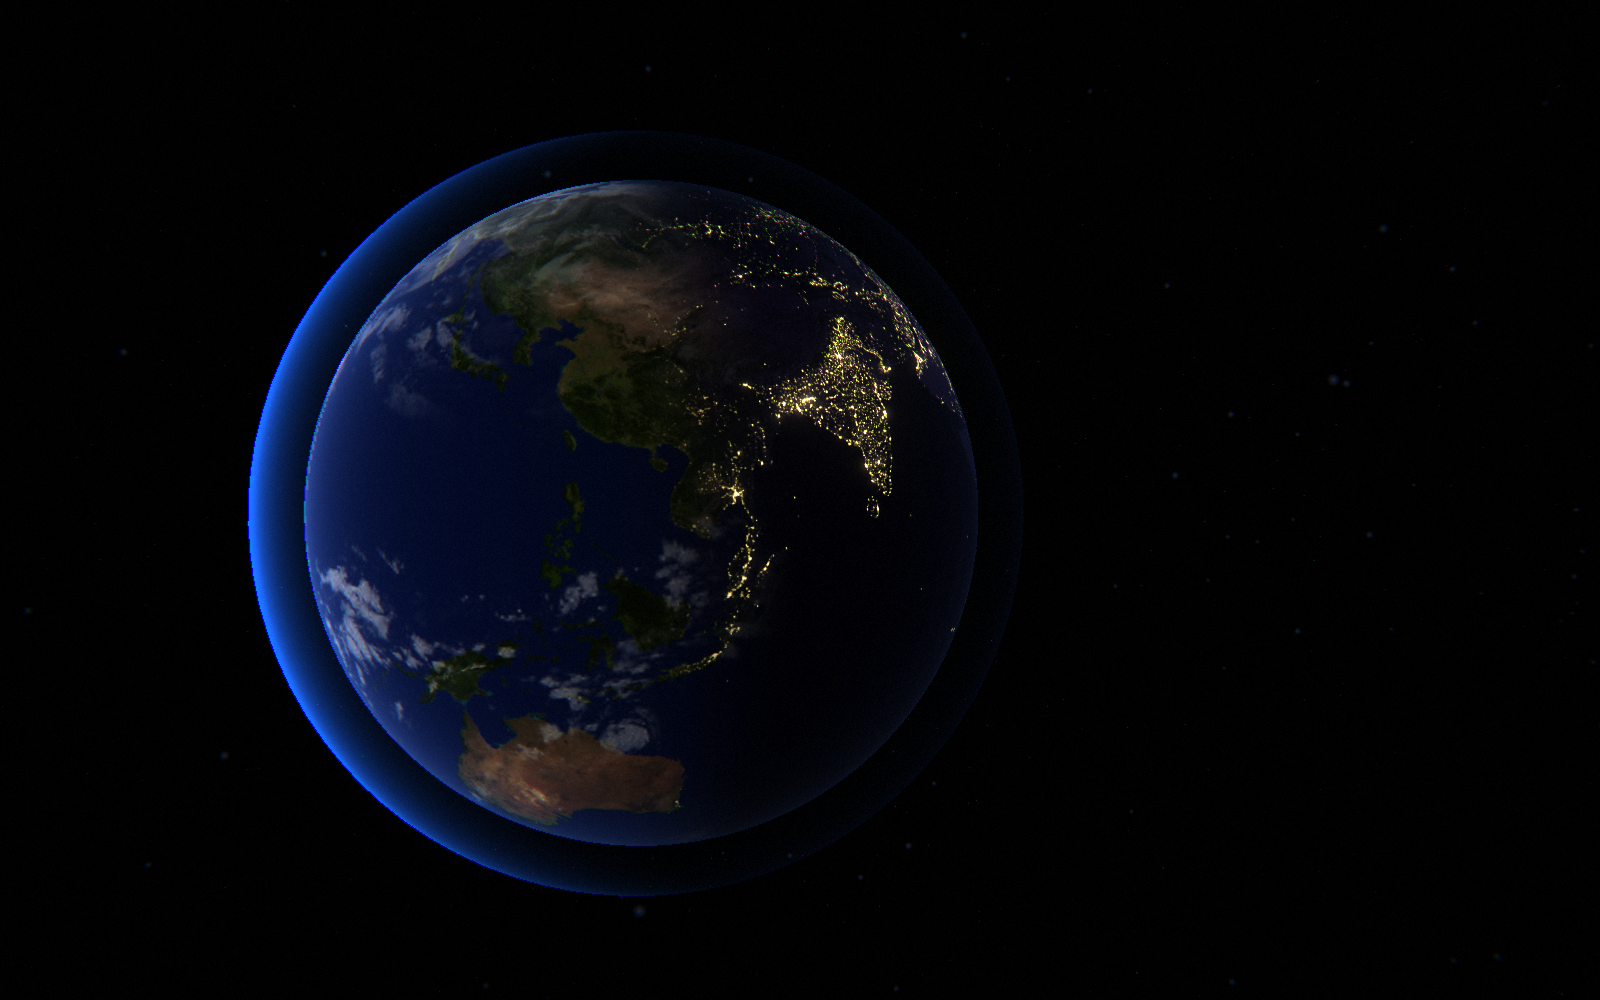
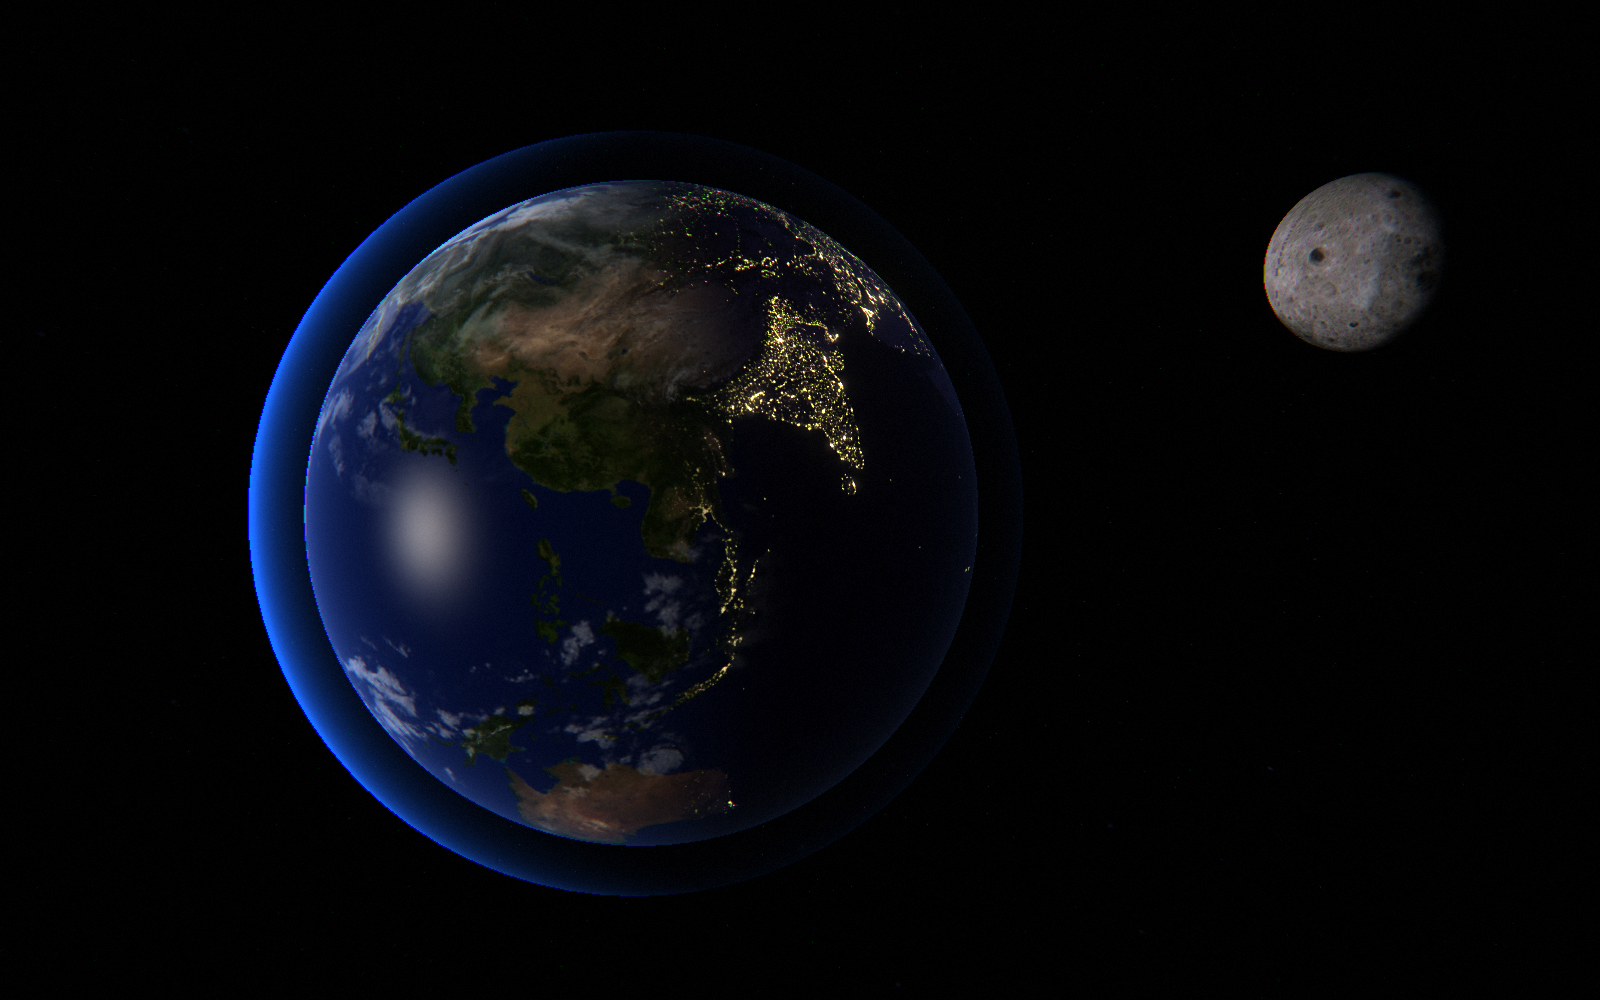
feat: solar-journey realism expansion — moon systems, ring shadow, ocean glint, milky way, axial tilts

Changed region(s): [[0.1875, 0.186, 0.5938, 0.837], [0.7812, 0.155, 0.9062, 0.372]]

diff --git a/designs/03-solar-journey/index.html b/designs/03-solar-journey/index.html
@@ -201,6 +201,16 @@ function dot() {
 const stars = makeStars(4500, 1600);
 scene.add(stars);
 
+// Milky Way band — a dim photographic sky sphere behind the point stars grounds the
+// whole scene in a real galaxy instead of flat black
+const milky = new THREE.Mesh(
+  new THREE.SphereGeometry(1500, 48, 32),
+  new THREE.MeshBasicMaterial({ side: THREE.BackSide, depthWrite: false, color: 0x6e6e84 }),
+);
+milky.rotation.set(0.45, 0, 1.05);
+milky.renderOrder = -20;
+scene.add(milky);
+
 // ---------------------------------------------------------------- sun
 const sunUniforms = { uTime: { value: 0 }, uMap: { value: null } };
 const sun = new THREE.Mesh(
@@ -317,6 +327,8 @@ function loadTex(file, srgb) {
   return t;
 }
 sunUniforms.uMap.value = loadTex('sun.jpg', true);  // sun mesh is declared above the loader block
+milky.material.map = loadTex('stars_milky_way.jpg', true);
+milky.material.needsUpdate = true;
 
 // ---------------------------------------------------------------- planet factory
 const planetVert = `varying vec3 vObj; varying vec3 vW; varying vec3 vWN;
@@ -346,7 +358,7 @@ const planetFrag = `
 // Earth gets its own surface: NASA Black Marble city lights on the night side and a
 // drifting cloud layer (both reused from 21-earth-descent's texture set, see SOURCES.md).
 const earthFrag = `
-  uniform sampler2D uMap; uniform sampler2D uNight; uniform sampler2D uClouds; uniform float uTime;
+  uniform sampler2D uMap; uniform sampler2D uNight; uniform sampler2D uClouds; uniform sampler2D uSpec; uniform float uTime;
   varying vec3 vObj; varying vec3 vW; varying vec3 vWN;
   const float INV_PI = 0.3183098862, INV_2PI = 0.1591549431;
   void main(){
@@ -365,11 +377,50 @@ const earthFrag = `
     nightSide *= 1.0 - cl * 0.6;                                // clouds occlude the city lights
     vec3 col = mix(nightSide, day * (0.25 + 0.85*d), term);
     vec3 V = normalize(cameraPosition - vW);
+    // sun glint on open water — masked by the specular map and the cloud layer
+    float sp = texture2D(uSpec, uv).r;
+    vec3 R = reflect(-L, wn);
+    col += vec3(1.0, 0.92, 0.75) * pow(clamp(dot(R, V), 0.0, 1.0), 30.0) * sp * d * (1.0 - cl) * 0.7;
     float fres = pow(1.0 - clamp(dot(wn,V),0.0,1.0), 3.0);
     col += vec3(0.35,0.55,1.0) * fres * 0.5 * (0.25 + d);       // blue scatter rim
     gl_FragColor = vec4(col, 1.0);
   }`;
 
+// axial tilt (rad), spin rate (rad/s, Venus retrograde) and moon systems per body.
+// Moon sizes/distances are art-scaled like everything else, but ratios stay honest
+// (Ganymede > Io, Titan outside the rings, Triton retrograde + steeply inclined).
+const PHYS = {
+  mercury: { tilt: 0.001, spin: 0.010 },
+  venus:   { tilt: 0.05,  spin: -0.006 },
+  earth:   { tilt: 0.41,  spin: 0.050, moons: [{ r: 0.7, dist: 6.0, speed: 0.05, incl: 0.09, phase: 5.8, tex: 'moon.jpg' }] },
+  mars:    { tilt: 0.44,  spin: 0.048, moons: [
+    { r: 0.14, dist: 3.2, speed: 0.22, incl: 0.02, tint: 0x8a7f72 },      // Phobos
+    { r: 0.11, dist: 4.4, speed: 0.15, incl: 0.05, tint: 0x9a8f82 } ] },  // Deimos
+  jupiter: { tilt: 0.05,  spin: 0.120, moons: [
+    { r: 0.50, dist: 12.5, speed: 0.16, incl: 0.02, tint: 0xd8c26a },     // Io
+    { r: 0.42, dist: 14.8, speed: 0.12, incl: 0.04, tint: 0xcfc4b0 },     // Europa
+    { r: 0.72, dist: 17.6, speed: 0.09, incl: 0.03, tint: 0x9a8d7a },     // Ganymede
+    { r: 0.65, dist: 20.5, speed: 0.07, incl: 0.05, tint: 0x6f6558 } ] }, // Callisto
+  saturn:  { tilt: 0.47,  spin: 0.110, moons: [{ r: 0.6, dist: 21.0, speed: 0.06, incl: 0.06, tint: 0xd8a35a }] }, // Titan
+  uranus:  { tilt: 1.71,  spin: 0.080 },
+  neptune: { tilt: 0.49,  spin: 0.090, moons: [{ r: 0.45, dist: 9.5, speed: -0.08, incl: 2.7, tint: 0xbfc8d0 }] }, // Triton
+};
+
+// untextured minor moons: sun-lit fbm-shaded rock in the body's own tint
+const moonFrag = NOISE + `
+  uniform vec3 uTint; varying vec3 vObj; varying vec3 vW; varying vec3 vWN;
+  void main(){
+    vec3 n = normalize(vObj);
+    vec3 wn = normalize(vWN);
+    vec3 L = normalize(-vW);
+    float d = clamp(dot(wn, L), 0.0, 1.0);
+    float term = smoothstep(-0.05, 0.35, dot(wn, L));
+    vec3 col = uTint * (0.7 + 0.5 * fbm(n * 9.0));
+    col = mix(col * 0.03, col, term) * (0.30 + 0.70 * d);
+    gl_FragColor = vec4(col, 1.0);
+  }`;
+
+const moonPivots = [];
 function makePlanet(cfg) {
   const g = new THREE.Group();
   const isEarth = cfg.key === 'earth';
@@ -377,6 +428,7 @@ function makePlanet(cfg) {
   if (isEarth) {
     uniforms.uNight = { value: loadTex('earth_night.jpg', true) };
     uniforms.uClouds = { value: loadTex('earth_clouds.png', false) };
+    uniforms.uSpec = { value: loadTex('earth_spec.jpg', false) };
     uniforms.uTime = { value: 0 };
   }
   const mat = new THREE.ShaderMaterial({
@@ -384,8 +436,23 @@ function makePlanet(cfg) {
     vertexShader: planetVert, fragmentShader: isEarth ? earthFrag : planetFrag,
   });
   const body = new THREE.Mesh(new THREE.IcosahedronGeometry(cfg.r, 24), mat);
-  body.rotation.z = (cfg.key === 'uranus') ? 1.6 : 0.15;
   g.add(body);
+  const phys = PHYS[cfg.key] || {};
+  g.rotation.z = phys.tilt || 0;  // tilt the whole system: body spin axis, rings, moon orbits
+  for (const m of phys.moons || []) {
+    const pivot = new THREE.Group();
+    pivot.rotation.x = m.incl;
+    pivot.rotation.y = m.phase ?? (m.dist * 2.399) % 6.283;  // fixed phase where the station framing needs the moon in shot
+    pivot.userData.speed = m.speed;
+    const moonMat = m.tex
+      ? new THREE.ShaderMaterial({ uniforms: { uMap: { value: loadTex(m.tex, true) } }, vertexShader: planetVert, fragmentShader: planetFrag })
+      : new THREE.ShaderMaterial({ uniforms: { uTint: { value: new THREE.Color(m.tint) } }, vertexShader: planetVert, fragmentShader: moonFrag });
+    const moon = new THREE.Mesh(new THREE.IcosahedronGeometry(m.r, 12), moonMat);
+    moon.position.set(m.dist, 0, 0);
+    pivot.add(moon);
+    g.add(pivot);
+    moonPivots.push(pivot);
+  }
   if (cfg.atmo) {
     const atmo = new THREE.Mesh(
       new THREE.IcosahedronGeometry(cfg.r * 1.13, 16),
@@ -409,12 +476,22 @@ function makePlanet(cfg) {
       new THREE.ShaderMaterial({
         transparent:true, side:THREE.DoubleSide, depthWrite:false,
         uniforms:{ uInner:{value:cfg.r*1.35}, uOuter:{value:cfg.r*2.3},
+          uCenter:{value:new THREE.Vector3(cfg.x, 0, 0)}, uPlanetR:{value:cfg.r},
           uRingColor:{value:loadTex('saturn_ring_color.jpg', true)}, uRingAlpha:{value:loadTex('saturn_ring_alpha.gif', false)} },
         vertexShader:`varying vec3 vObj; varying vec3 vW; void main(){ vObj=position; vec4 w=modelMatrix*vec4(position,1.0); vW=w.xyz; gl_Position=projectionMatrix*viewMatrix*w; }`,
-        fragmentShader: `uniform float uInner; uniform float uOuter; uniform sampler2D uRingColor; uniform sampler2D uRingAlpha; varying vec3 vObj; varying vec3 vW;
+        fragmentShader: `uniform float uInner; uniform float uOuter; uniform sampler2D uRingColor; uniform sampler2D uRingAlpha;
+          uniform vec3 uCenter; uniform float uPlanetR; varying vec3 vObj; varying vec3 vW;
           void main(){ float r=length(vObj.xy); float t=clamp((r-uInner)/(uOuter-uInner),0.0,1.0);
             vec3 col = texture2D(uRingColor, vec2(t, 0.5)).rgb;       // real radial ring profile
             float a = texture2D(uRingAlpha, vec2(t, 0.5)).r;          // transparency pattern (Cassini gaps etc.)
+            // planet shadow across the rings — the single strongest "real Saturn" cue:
+            // ring point is shadowed when the ray toward the Sun (origin) passes the globe
+            vec3 L = normalize(-vW);
+            vec3 toC = uCenter - vW;
+            float proj = dot(toC, L);
+            float axDist = length(toC - proj * L);
+            float sh = proj > 0.0 ? smoothstep(uPlanetR * 0.86, uPlanetR * 1.04, axDist) : 1.0;
+            col *= 0.10 + 0.90 * sh;
             gl_FragColor = vec4(col, a); }`,
       })
     );
@@ -628,7 +705,8 @@ loop((elapsed, dt) => {
   bloom.strength = mapClamp(seg, 0.8, 2.0, 0.45, 0.7);
   diskUniforms.uTime.value = elapsed;
   disk.rotation.z = elapsed * 0.06;
-  for (const p of planets) { p.body.rotation.y += dt * 0.06; }   // textures are static; just spin the bodies
+  for (const p of planets) { p.body.rotation.y += dt * ((PHYS[p.cfg.key] || {}).spin ?? 0.05); }
+  for (const pv of moonPivots) pv.rotation.y += dt * pv.userData.speed;
   earthMat.uniforms.uTime.value = elapsed;
   // distance-shot effect only: at the Sol close-up the sprite sits right on the disc
   // and repaints the centre as a white blob (+ its streak), so it must be gone by seg 1

diff --git a/PLAN.md b/PLAN.md
@@ -307,3 +307,19 @@ User-requested concepts (2026-06-29): `21-earth-descent` (build now), `22-goal-s
   bloom (`c != c → 0`, clamp 0..64) so any missed source dies before the mip chain; plus a
   `?nomsaa` diagnostic flag in `shared/lib.js`. NOTE: the same unclamped-pow pattern exists in
   01/02/21's fresnel shaders — if Nico reports black blocks there, apply the same clamp + scrub.
+- 2026-07-03 — **realism expansion on `03-solar-journey`** (Nico: "deutlich realistischer, Monde,
+  sau beeindruckend"). (1) **Photo-based sun**: Solar System Scope sun map (CC BY 4.0, existing
+  footer credit covers it) replaces the procedural photosphere — two counter-drifting fbm-warped
+  samples cross-fade so the surface visibly boils without tiling; limb darkening, chromosphere
+  rim, streaked corona and glow sprite stay analytic on top. Procedural fbm alone topped out at
+  "lava lamp" after ~8 tuning rounds — texture was the step change. (2) **Moon systems** (PHYS
+  table: tilt/spin/moons per body): Luna with the real 2k moon map (fixed orbit phase 5.8 so it
+  sits in shot at the Earth station), Phobos/Deimos, the four Galilean moons (art-scaled but
+  honest ratios, Ganymede largest), Titan outside the rings, retrograde + steeply inclined
+  Triton — all orbiting on tilted pivots (fbm-shaded tinted rock via a small moonFrag; Luna uses
+  planetFrag). (3) **Axial tilts on the whole group** (spin axis + rings + moon orbits tilt
+  together; Uranus 1.71 rad) and per-body spin rates, Venus retrograde. (4) **Saturn's globe
+  shadow across the rings** (analytic ray-past-sphere test in the ring shader — the strongest
+  single Saturn realism cue). (5) **Earth ocean sun-glint** via 21's earth_spec.jpg, masked by
+  clouds. (6) **Milky Way sky sphere** (2k pano, dimmed 0x6e6e84) behind the point starfield.
+  Zero console errors; poster re-rendered (Earth + Luna).

diff --git a/designs/03-solar-journey/textures/SOURCES.md b/designs/03-solar-journey/textures/SOURCES.md
@@ -40,3 +40,5 @@ object-space normal, so the geometry's own UVs and seams are irrelevant.
 - `earth_night.jpg`, `earth_clouds.png` — copied from designs/21-earth-descent/textures/ (NASA Black Marble / cloud layer, public domain — see that folder's SOURCES.md for provenance).
 
 - `sun.jpg` — Solar System Scope (CC BY 4.0, same source + attribution as the planet maps; credited in the gallery footer).
+- `moon.jpg`, `stars_milky_way.jpg` — Solar System Scope (CC BY 4.0, credited in gallery footer).
+- `earth_spec.jpg` — copied from designs/21-earth-descent/textures/ (see its SOURCES.md).
